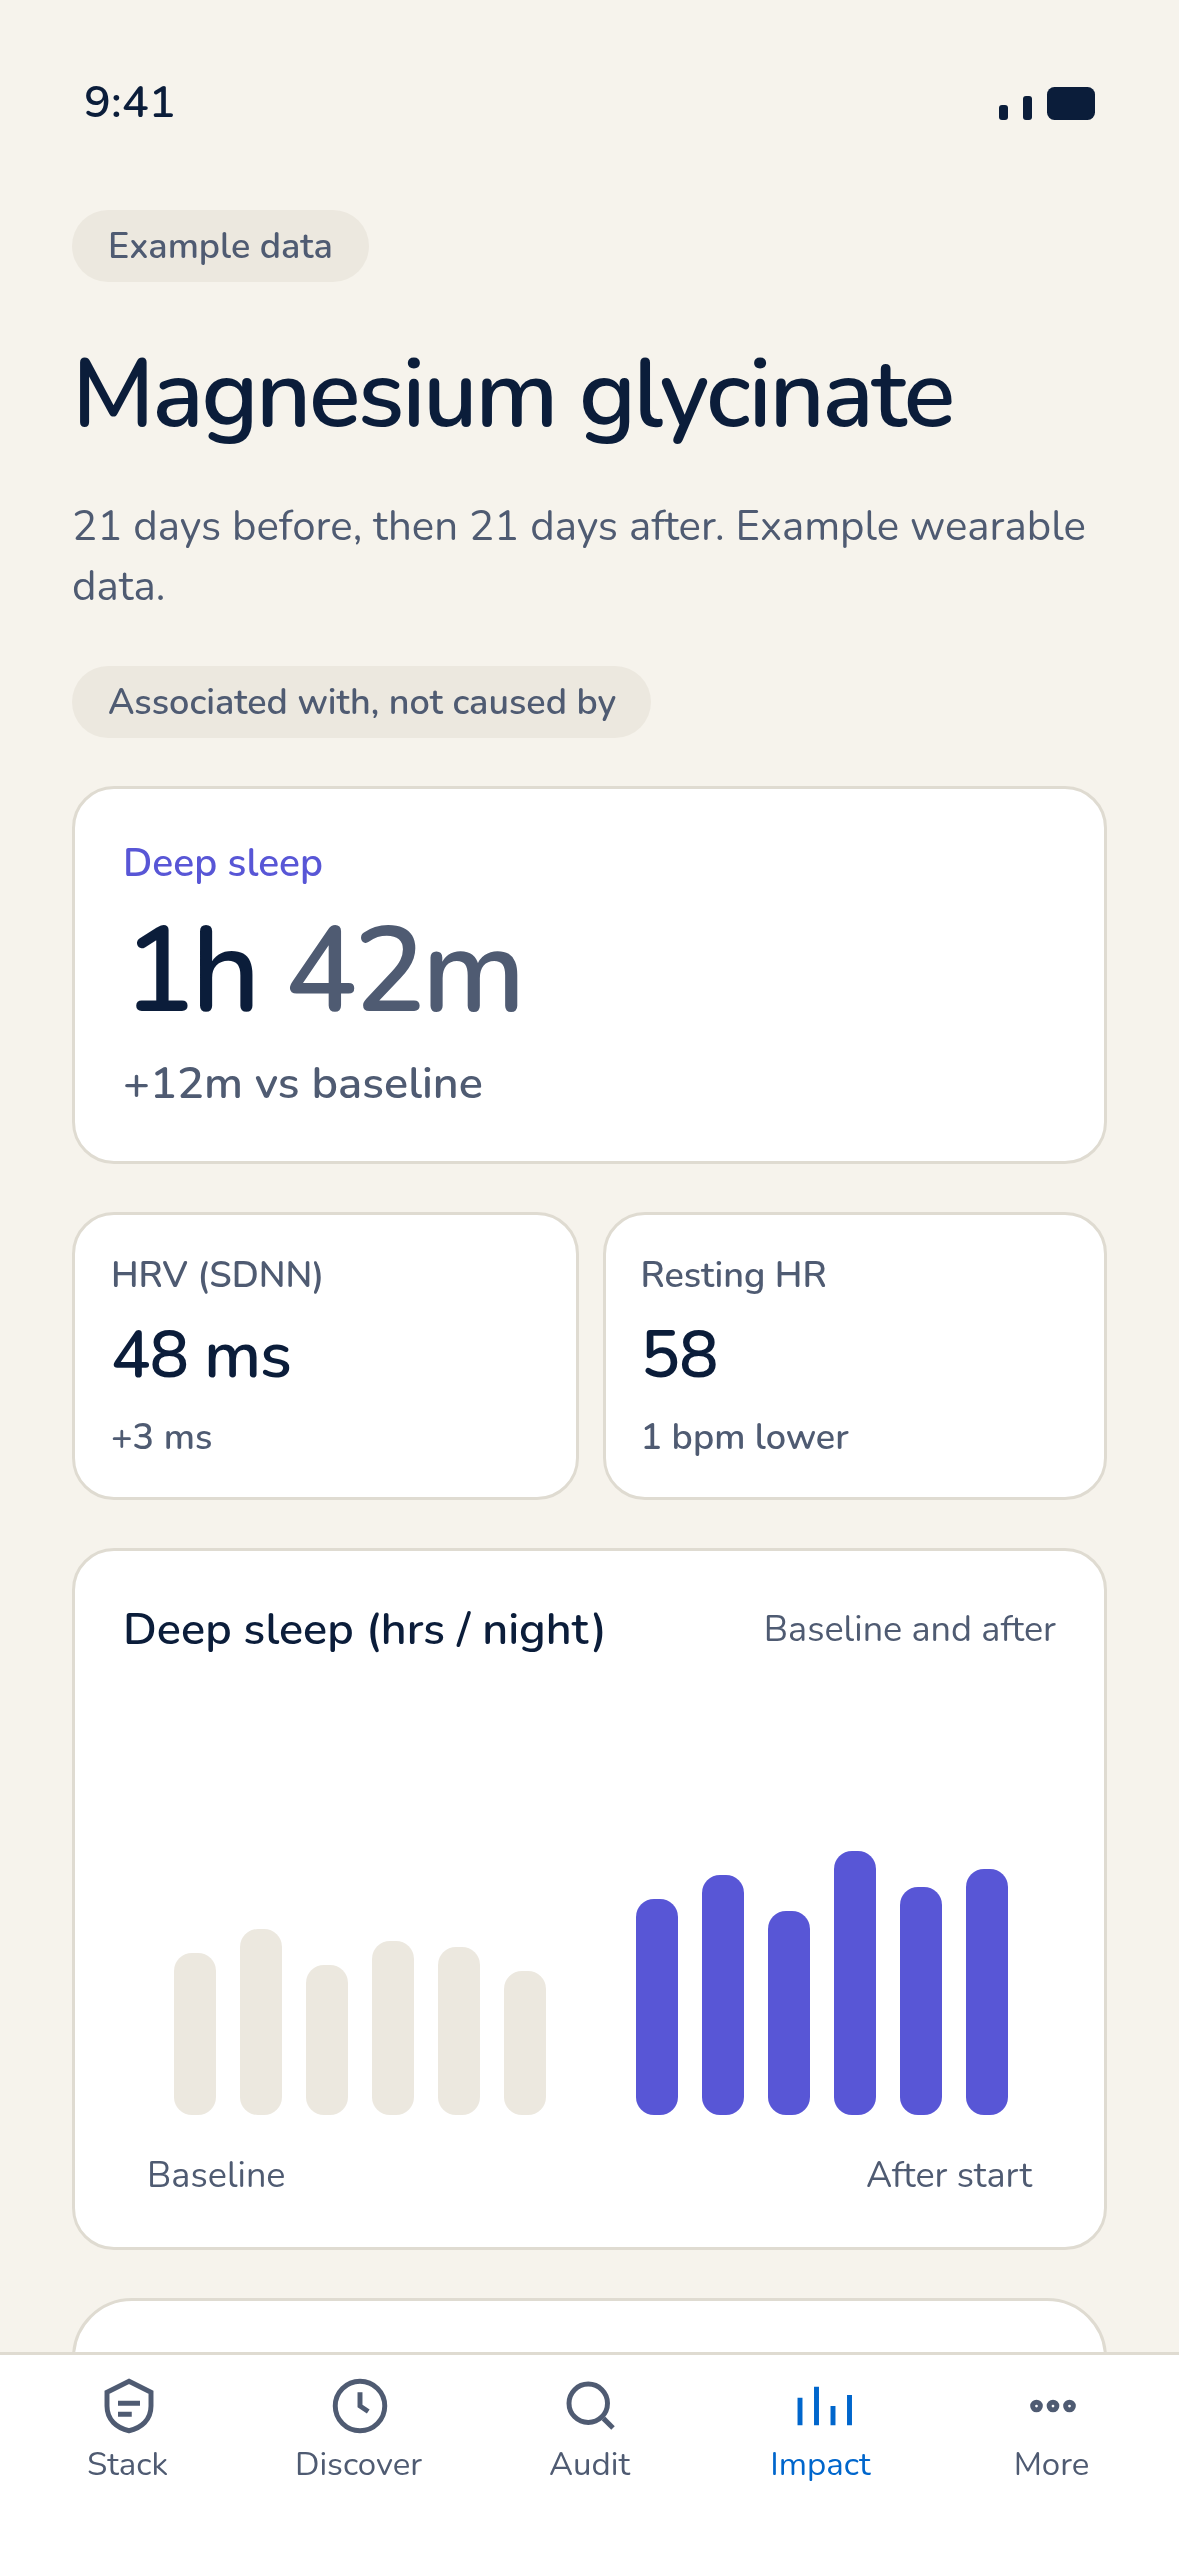
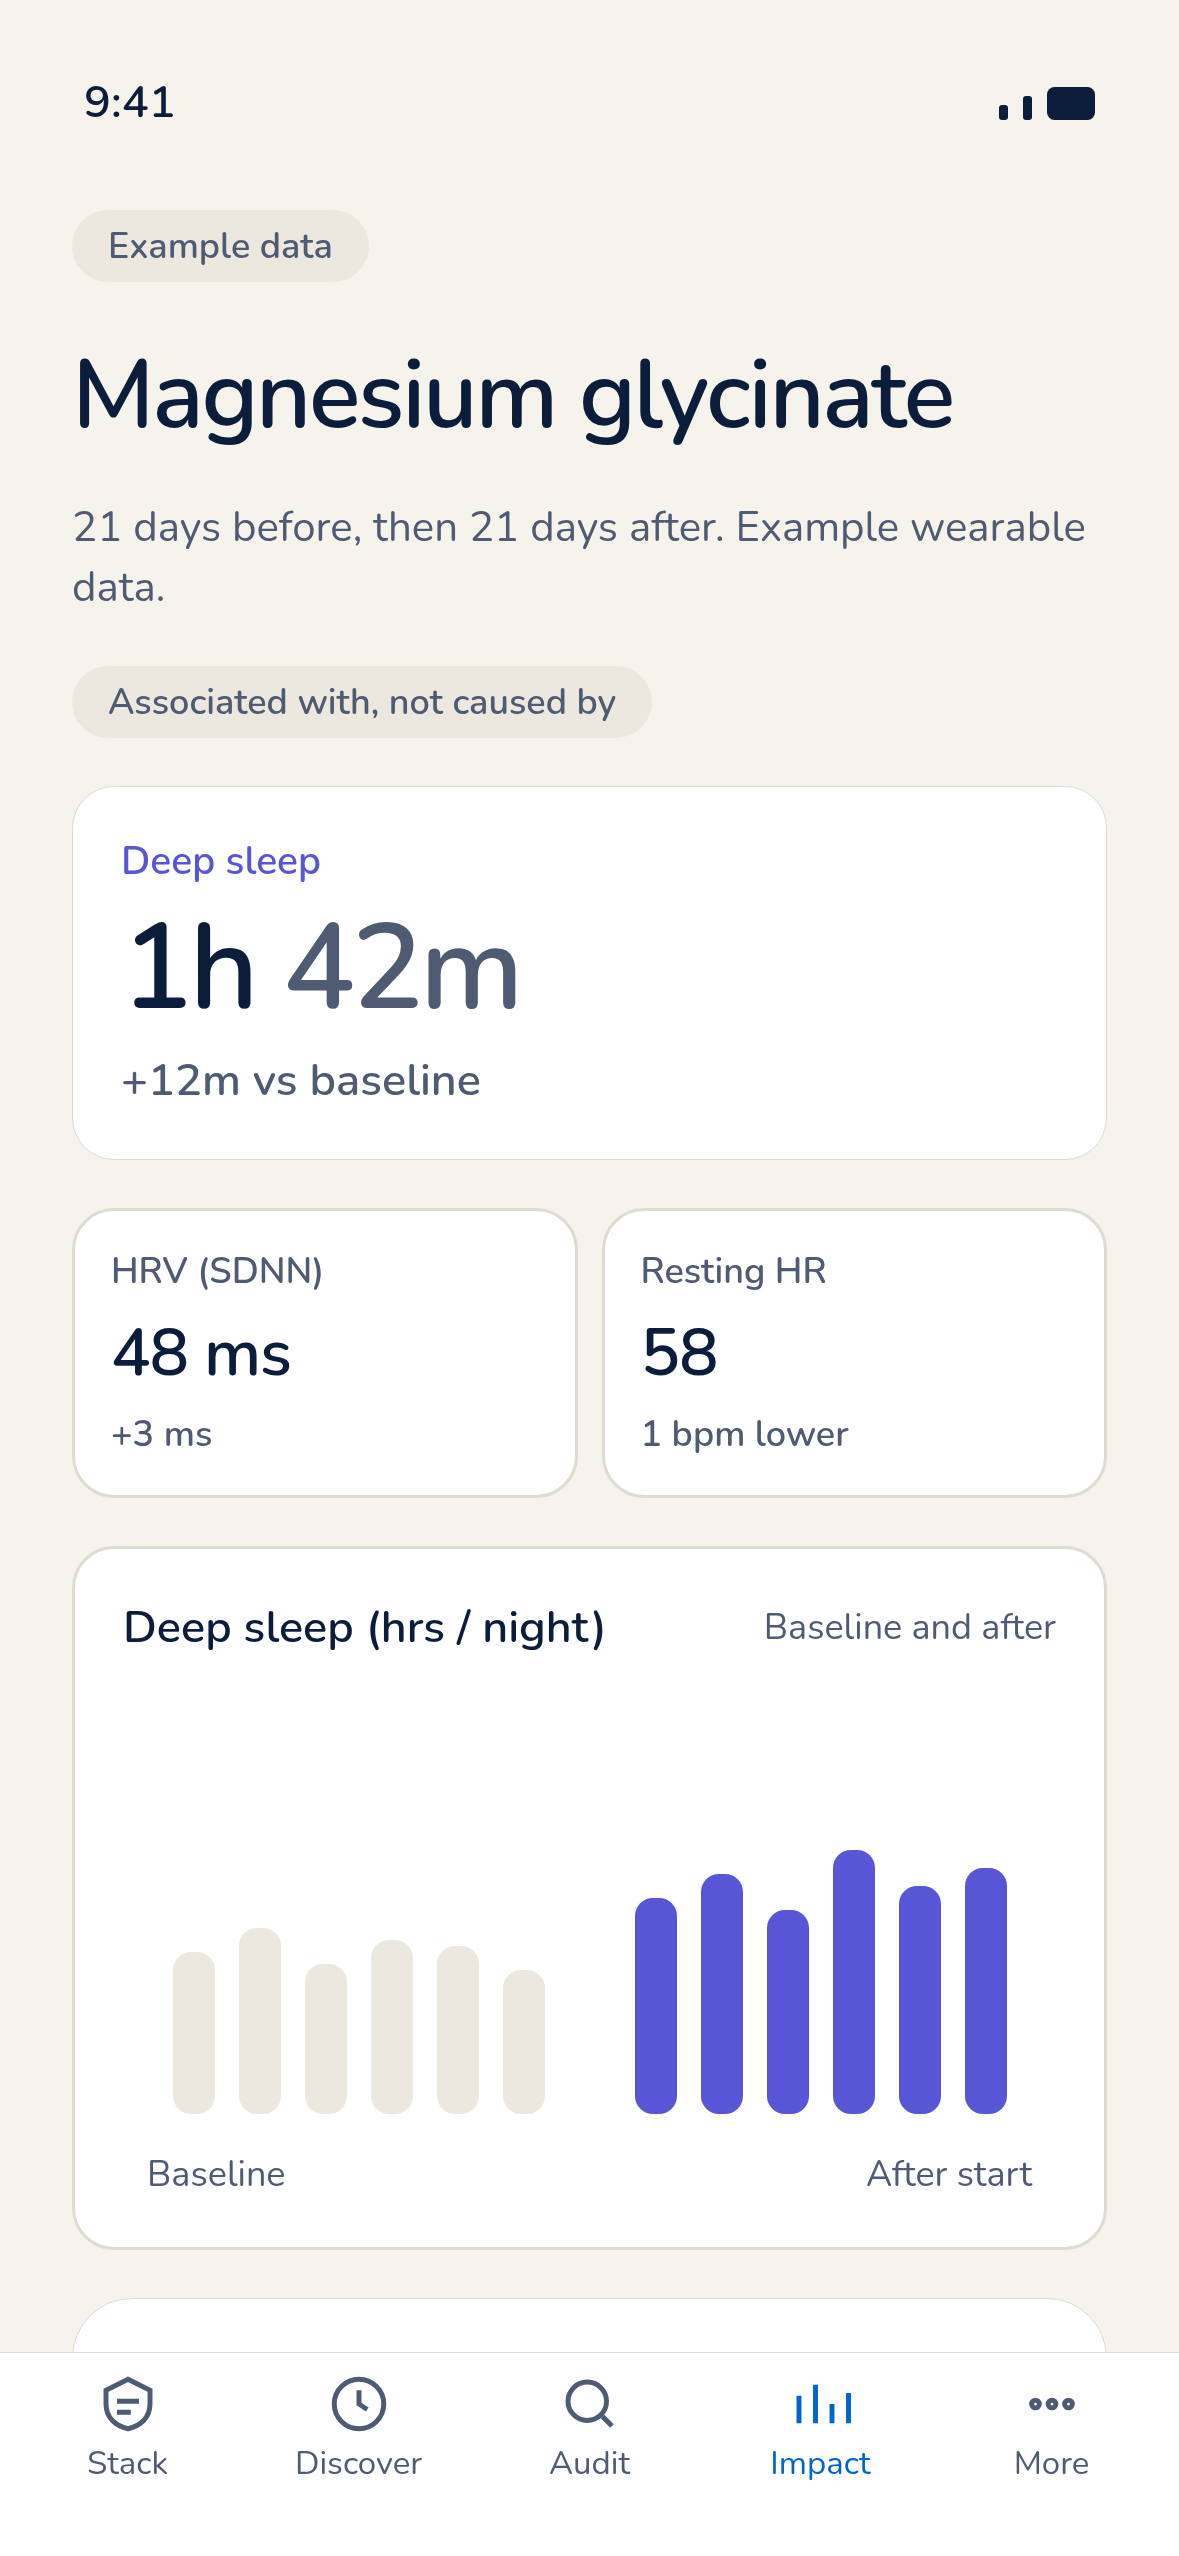
Match My Stack to the landing phone mockup
Spend and row prices use ink instead of amber. ScoreBadge stays ink with
white numerals. Share is a bordered rounded square. Log today keeps the
sand promo card with a blue accent even when everything is taken. Product
names ellipsize on one line. T keeps ui-rounded last so styles cannot wipe
it. Landing stack/impact PNGs refreshed for StackView copy.

diff --git a/app/src/components/ui.tsx b/app/src/components/ui.tsx
@@ -23,6 +23,7 @@ export function T({
   size = 16,
   color,
   scale = true,
+  numberOfLines,
   style,
 }: {
   children: ReactNode;
@@ -31,13 +32,15 @@ export function T({
   color?: string;
   /** False only for a numeral sized to a fixed ring or badge. */
   scale?: boolean;
+  numberOfLines?: number;
   style?: StyleProp<TextStyle>;
 }) {
   const theme = useTheme();
   return (
     <Text
       allowFontScaling={scale}
-      style={[{ fontFamily, fontWeight: font[weight], fontSize: size, color: color ?? theme.text, lineHeight: Math.round(size * 1.35) }, style]}
+      numberOfLines={numberOfLines}
+      style={[{ fontWeight: font[weight], fontSize: size, color: color ?? theme.text, lineHeight: Math.round(size * 1.35) }, style, fontFamily ? { fontFamily } : null]}
     >
       {children}
     </Text>
@@ -271,9 +274,18 @@ export function ShareButton({ onPress }: { onPress: () => void }) {
       accessibilityLabel="Share stack"
       onPress={onPress}
       hitSlop={8}
-      style={{ width: 44, height: control.height, alignItems: 'center', justifyContent: 'center' }}
+      style={{
+        width: 36,
+        height: 36,
+        borderRadius: 10,
+        borderWidth: StyleSheet.hairlineWidth,
+        borderColor: theme.line,
+        backgroundColor: theme.card,
+        alignItems: 'center',
+        justifyContent: 'center',
+      }}
     >
-      <Ionicons name={name} size={22} color={theme.text} />
+      <Ionicons name={name} size={18} color={theme.action} />
     </Pressable>
   );
 }
@@ -337,11 +349,11 @@ export function ProductRow({ product, onPress, last = false }: { product: Produc
       style={({ pressed }) => [styles.product, last ? styles.productLast : null, pressed ? { opacity: 0.85 } : null]}
     >
       <Capsule color={theme.muted} />
-      <View style={{ flex: 1, gap: space.xxs }}>
-        <T weight="semibold" size={16}>
+      <View style={{ flex: 1, gap: space.xxs, minWidth: 0 }}>
+        <T weight="semibold" size={16} numberOfLines={1}>
           {product.name}
         </T>
-        <T size={13} color={theme.muted}>
+        <T size={13} color={theme.muted} numberOfLines={1}>
           {productSubtitle(product)}
         </T>
       </View>
@@ -350,7 +362,7 @@ export function ProductRow({ product, onPress, last = false }: { product: Produc
           Add price
         </T>
       ) : (
-        <T weight="semibold" size={16} color={theme.amber}>
+        <T weight="semibold" size={16} color={theme.text}>
           {formatMoney(monthly, currencyOf(product))}
         </T>
       )}

diff --git a/app/src/components/LogTodayCard.tsx b/app/src/components/LogTodayCard.tsx
@@ -68,14 +68,20 @@ export function LogTodayCard({
         <Animated.View key="collapsed" entering={ENTER} exiting={EXIT} layout={LAYOUT}>
           <Pressable
             accessibilityRole="button"
-            accessibilityLabel="All taken today"
+            accessibilityLabel={`Log today. ${logStatus}`}
             onPress={onOpen}
-            style={({ pressed }) => [styles.doneRow, pressed ? { opacity: 0.88 } : null]}
+            style={({ pressed }) => [styles.promoCard, pressed ? { opacity: 0.92 } : null]}
           >
-            <Ionicons name="checkmark-circle" size={22} color={theme.action} />
-            <T size={15} weight="regular" color={theme.muted} style={{ flex: 1 }}>
-              All taken today
-            </T>
+            <View style={styles.promoAccent} />
+            <Ionicons name="checkmark-circle" size={28} color={theme.action} />
+            <View style={styles.promoCopy}>
+              <T weight="semibold" size={17}>
+                Log today
+              </T>
+              <T size={14} color={theme.muted}>
+                {logStatus}
+              </T>
+            </View>
             <Ionicons name="chevron-forward" size={18} color={theme.muted} />
           </Pressable>
         </Animated.View>
@@ -121,6 +127,8 @@ function localStyles(theme: Theme) {
       paddingVertical: space.md,
       paddingHorizontal: space.md,
       paddingLeft: 12,
+      // Keep the chevron clear of Expo Go's floating gear on the right edge.
+      paddingRight: space.xxl,
       borderRadius: theme.radius,
       borderWidth: 1,
       borderColor: theme.bg === '#16130F' ? '#2A3A4A' : '#C5D8EF',
@@ -136,19 +144,5 @@ function localStyles(theme: Theme) {
       backgroundColor: theme.action,
     },
     promoCopy: { flex: 1, gap: space.xxs },
-    doneRow: {
-      minHeight: control.height,
-      flexDirection: 'row',
-      alignItems: 'center',
-      gap: space.md,
-      paddingVertical: space.md,
-      paddingLeft: space.md,
-      // Keep the chevron clear of Expo Go's floating gear on the right edge.
-      paddingRight: space.xxl,
-      borderRadius: theme.radius,
-      borderWidth: 1,
-      borderColor: theme.line,
-      backgroundColor: theme.card,
-    },
   });
 }

diff --git a/app/src/theme.ts b/app/src/theme.ts
@@ -4,7 +4,7 @@ import { Appearance, Platform, useColorScheme, type ColorSchemeName, type TextSt
 /**
  * StackView theme, structured like Spanish Out Loud: one spacing scale, radii,
  * type ramp, and shared control heights. Colours stay StackView (#0066CC action,
- * gold for money only). Light and dark are both AA.
+ * ink for money figures on stack; amber reserved for savings callouts). Light and dark are both AA.
  */
 export type ChipColors = { bg: string; fg: string };
 
@@ -173,8 +173,9 @@ export const control = {
 } as const;
 
 /**
- * SF Pro Rounded on iOS via the system UI rounded face. No custom font file;
- * Expo Go picks it up. Android and web keep the platform UI font.
+ * SF Pro Rounded on iOS via the system UI rounded face (`ui-rounded`). No custom
+ * font file. Keep this on every Text (T merges it last so styles cannot wipe it).
+ * Android and web keep the platform UI font.
  */
 export const fontFamily = Platform.OS === 'ios' ? 'ui-rounded' : undefined;
 
@@ -236,7 +237,7 @@ export function typeStyle(variant: TypeVariant, theme: Theme): TextStyle {
     case 'caption':
       return { ...face, fontWeight: font.regular, fontSize: 12, lineHeight: 16, color: theme.faint };
     case 'money':
-      return { ...face, fontWeight: font.semibold, fontSize: 34, lineHeight: 38, letterSpacing: -1, color: theme.amber };
+      return { ...face, fontWeight: font.semibold, fontSize: 34, lineHeight: 38, letterSpacing: -1, color: theme.text };
     default:
       return { ...face, fontWeight: font.regular, fontSize: 16, lineHeight: 24, color: theme.text };
   }

diff --git a/app/app/(tabs)/stack.tsx b/app/app/(tabs)/stack.tsx
@@ -76,7 +76,7 @@ export default function StackScreen() {
           <T size={13} color={theme.muted}>
             Estimated monthly spend
           </T>
-          <T weight="semibold" size={56} color={theme.amber} style={styles.spend}>
+          <T weight="semibold" size={56} color={theme.text} style={styles.spend}>
             {joinMoney(audit.money.map((line) => ({ currency: line.currency, cents: line.monthlyCents }))) ?? formatMoney(0, app.currency)}
           </T>
           {audit.duplicates.length > 0 ? (
@@ -161,12 +161,12 @@ function localStyles(theme: Theme) {
   screen: { flex: 1, backgroundColor: theme.bg },
   header: { paddingHorizontal: space.xl, paddingBottom: 8, gap: space.xs },
   titleRow: { flexDirection: 'row', alignItems: 'center', gap: space.sm },
-  title: { letterSpacing: -0.8, flex: 1 },
+  title: { letterSpacing: -0.8, lineHeight: 38, flex: 1 },
   group: { backgroundColor: theme.card, borderRadius: radius.lg, borderWidth: StyleSheet.hairlineWidth, borderColor: theme.line, overflow: 'hidden' },
   links: { flexDirection: 'row', gap: space.lg },
   link: { minHeight: control.height, justifyContent: 'center' },
   scroll: { paddingHorizontal: space.xl, paddingTop: space.md, paddingBottom: space.xxl, gap: space.xl },
-  hero: { gap: space.sm, paddingVertical: space.lg, paddingHorizontal: space.lg },
+  hero: { gap: space.sm, paddingVertical: space.lg, paddingHorizontal: space.xl },
   spend: { letterSpacing: -2, lineHeight: 60, marginTop: -space.xs },
   overlapRow: {
     flexDirection: 'row',

diff --git a/app/src/components/share.tsx b/app/src/components/share.tsx
@@ -397,14 +397,13 @@ export function CompositionStrip({ items, height = 8 }: { items: { name: string;
 /** Square score badge for list rows. */
 export function ScoreBadge({ score, size = 56 }: { score: number; size?: number }) {
   const theme = useTheme();
-  const tone = scoreTone(score);
   return (
     <View
       style={{
         width: size,
         height: size,
         borderRadius: size * 0.3,
-        backgroundColor: tone === 'good' ? theme.goodFill : theme.neutralFill,
+        backgroundColor: theme.neutralFill,
         alignItems: 'center',
         justifyContent: 'center',
       }}

diff --git a/app/app/(tabs)/impact.tsx b/app/app/(tabs)/impact.tsx
@@ -258,7 +258,7 @@ function TagButton({ label, onPress }: { label: string; onPress: () => void }) {
 
 function localStyles(theme: Theme) {
   return StyleSheet.create({
-  title: { letterSpacing: -0.8, marginTop: 4 },
+  title: { letterSpacing: -0.8, lineHeight: 36, marginTop: 4 },
   link: { minHeight: control.height, justifyContent: 'center' },
   heroStat: {
     backgroundColor: theme.card,
